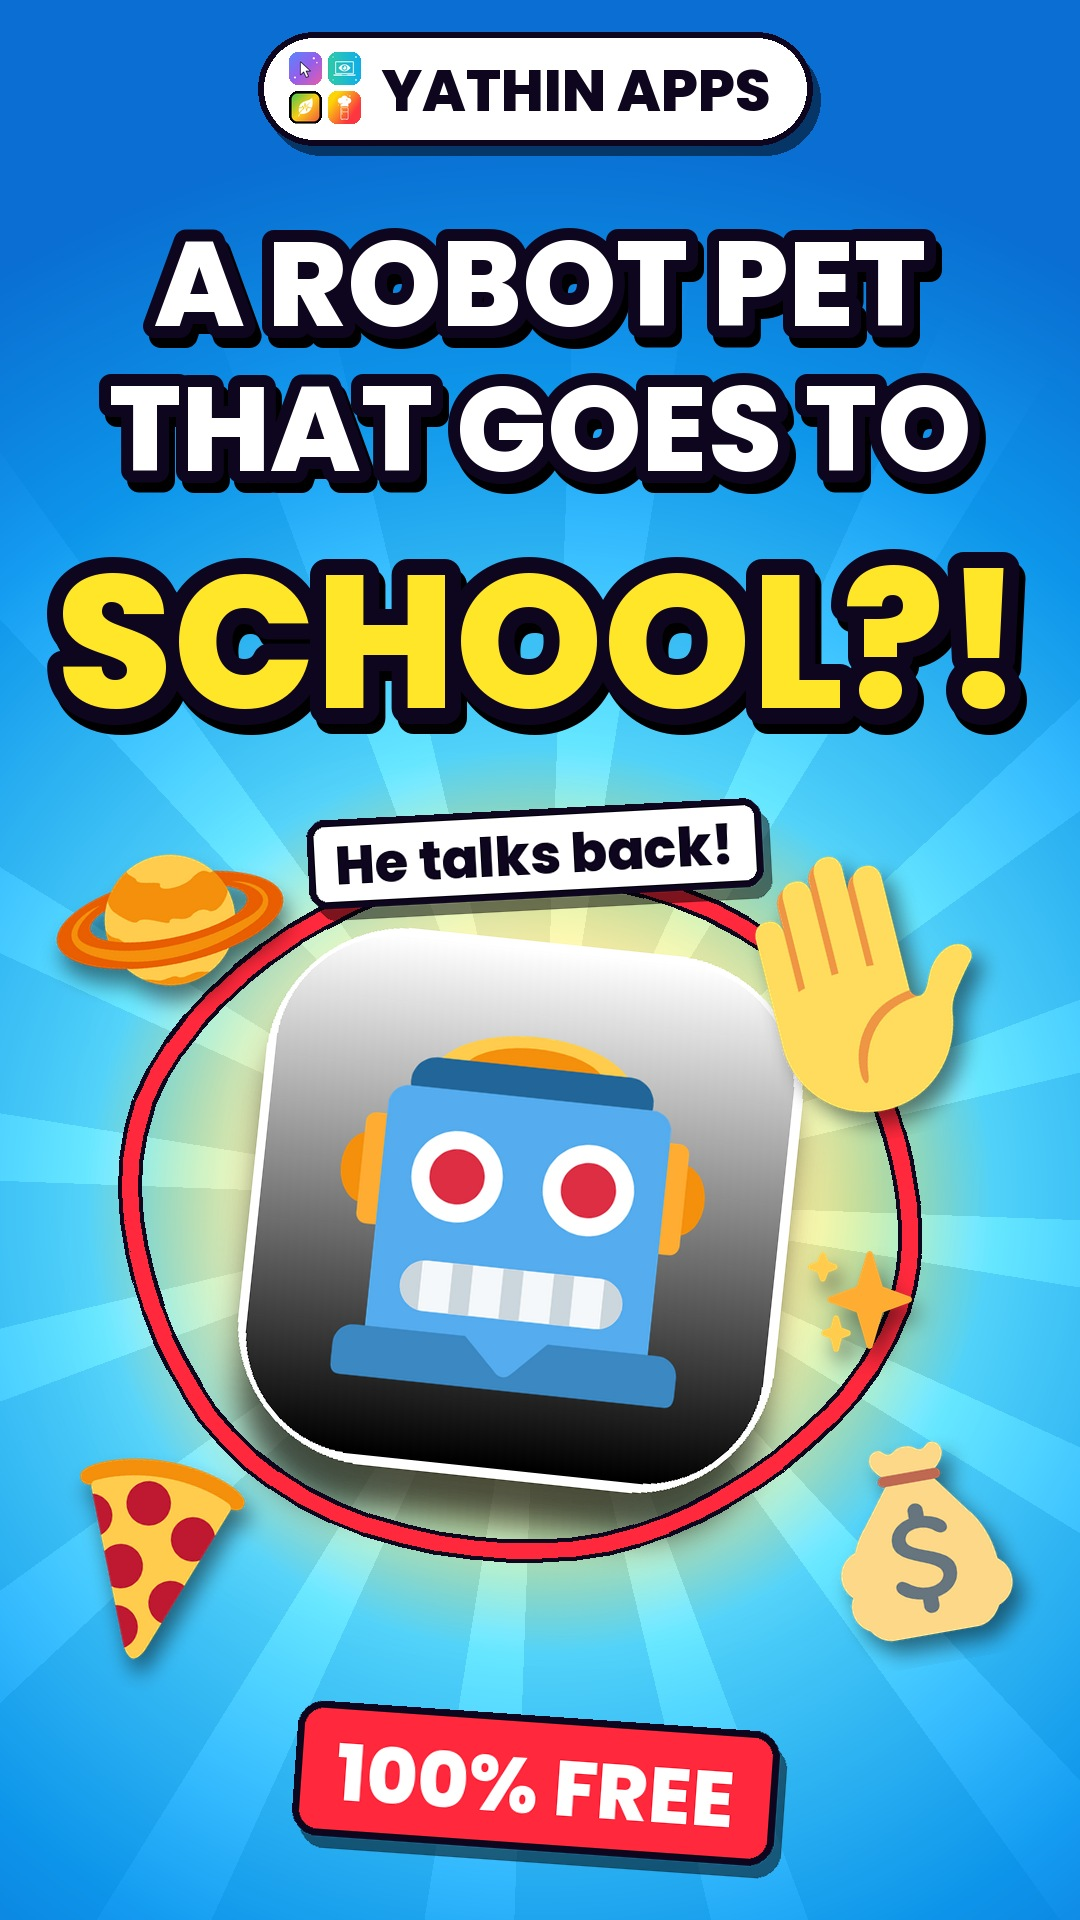
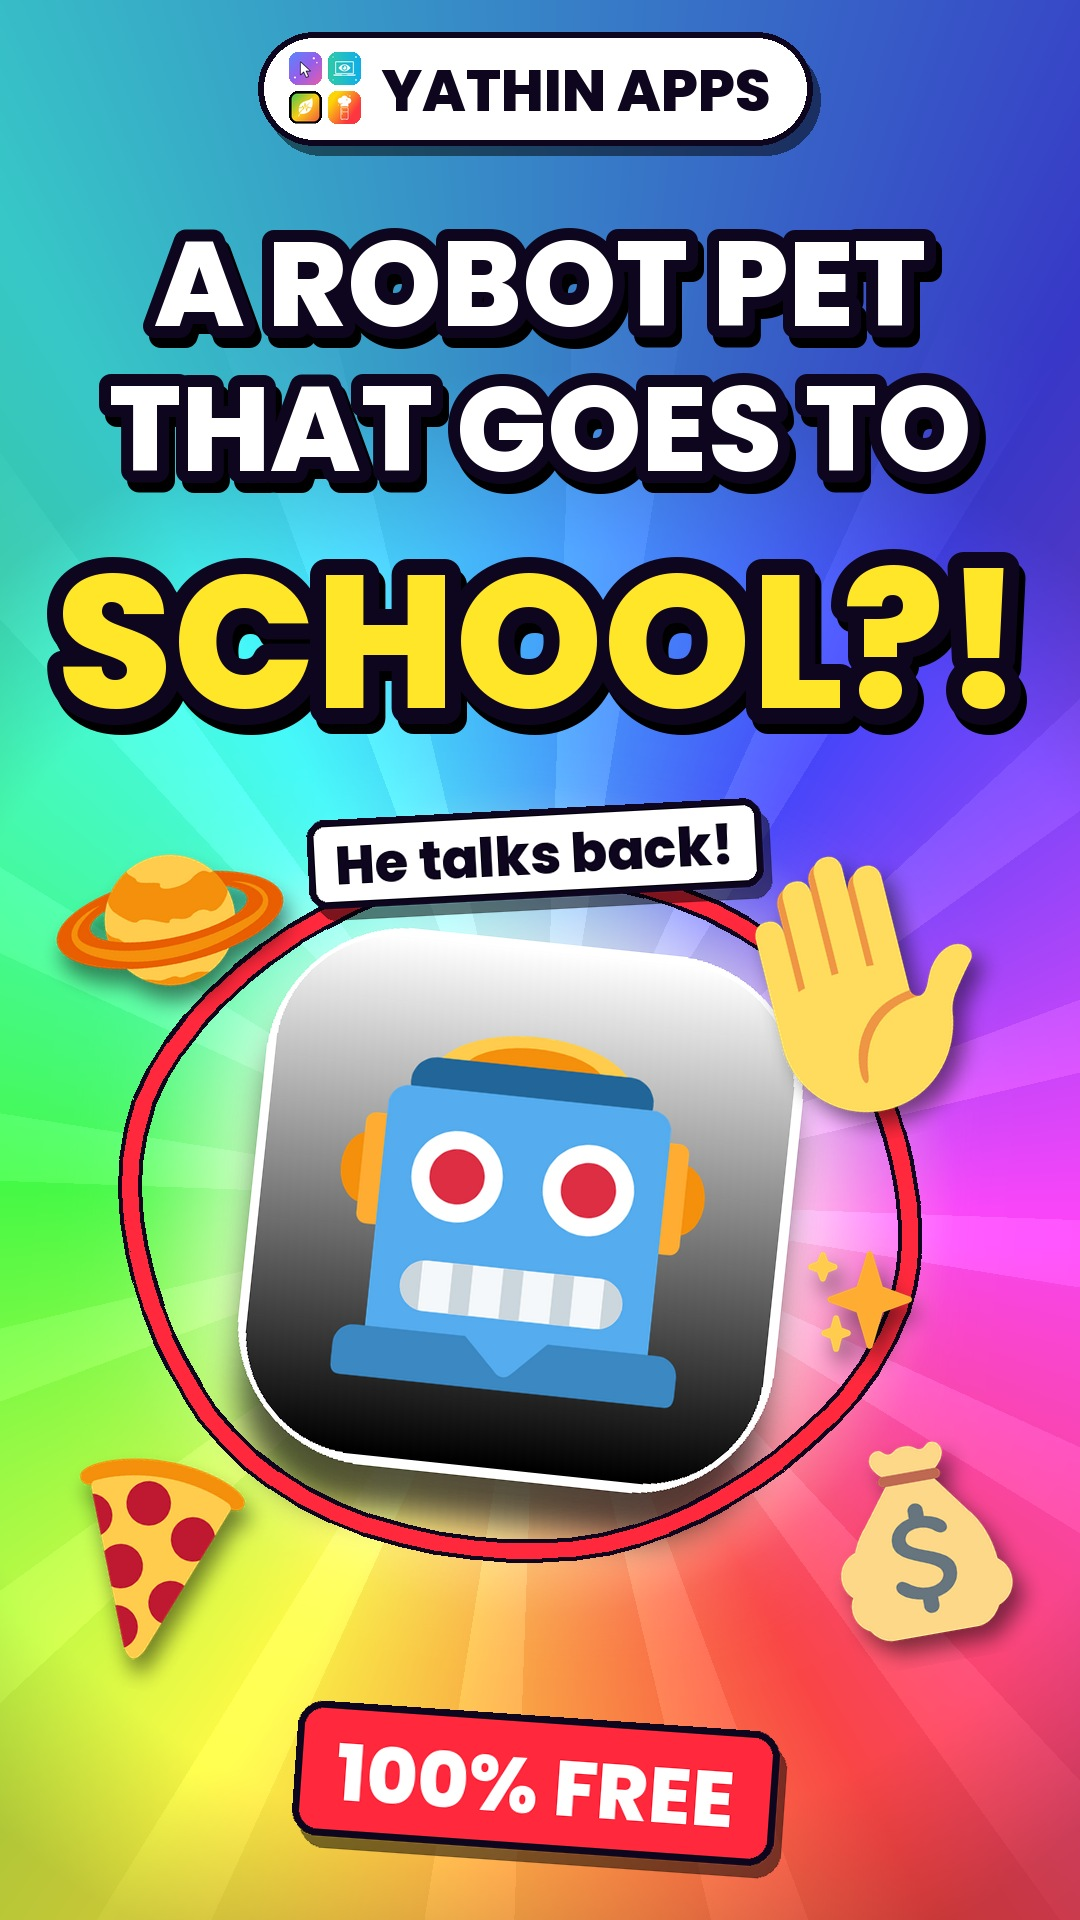
Finko short: rainbow background + thumbnail [skip ci]

diff --git a/videos/src/director.html b/videos/src/director.html
@@ -159,7 +159,7 @@ const SCRIPTS = {
    {end:true, say:"Yathin Apps. Free, all in one place."}
   ]},
 
- "finko-vertical": { vertical:true, bg:"linear-gradient(180deg,#075985 0%,#0369a1 20%,#0284c7 36%,#38bdf8 46%,#e0f2fe 54%,#ffffff 60%,#ffffff 100%)", btn:"linear-gradient(90deg,#38bdf8,#facc15)",
+ "finko-vertical": { vertical:true, bg:"linear-gradient(180deg,rgba(255,255,255,0) 0%,rgba(255,255,255,0) 42%,#ffffff 58%,#ffffff 100%),linear-gradient(90deg,#e11d48 0%,#ea580c 20%,#ca8a04 38%,#16a34a 56%,#0284c7 76%,#7c3aed 100%)", btn:"linear-gradient(90deg,#38bdf8,#facc15)",
   voice:"en-US-AvaNeural", rate:"+10%",
   icon:"/finko/finko_icon.png", title:"Virtual Finko", tag:"A robot pet you can play with",
   chips:["100% free","Plays in your browser","Made by Yathin"], foot:"praveenp-works.github.io/yathin_apps/finko",

diff --git a/videos/thumbnails/make_finko_thumbnail.py b/videos/thumbnails/make_finko_thumbnail.py
@@ -3,11 +3,18 @@ import numpy as np
 src=open('thumbnails/make_yathin_thumbnail.py').read().split('# ---- wide')[0]
 exec(src)
 def bgsky(W,H,cx,cy):
-    y,x=np.mgrid[0:H,0:W]; dx=(x-cx)/W; dy=(y-cy)/W; r=np.sqrt(dx*dx+dy*dy)
-    stops=[(0,(255,244,120)),(.2,(255,214,40)),(.42,(80,210,250)),(.75,(14,150,235)),(1,(10,110,210))]
-    out=np.zeros((H,W,3))
-    for c in range(3): out[...,c]=np.interp(r,[s[0] for s in stops],[s[1][c] for s in stops])
-    ang=np.arctan2(dy,dx); rays=(np.sin(ang*16)>0.55)*np.clip(1-r*1.1,0,1)*40
+    import colorsys
+    y,x=np.mgrid[0:H,0:W]; dx=(x-cx)/W; dy=(y-cy)/W; r=np.sqrt(dx*dx+dy*dy); ang=np.arctan2(dy,dx)
+    hue=((ang/(2*np.pi))+1-0.17)%1
+    hsv=np.stack([hue,np.full_like(hue,.78),np.full_like(hue,.98)],-1)
+    rgb=np.vectorize(lambda h:0)(hue[:1,:1])  # placeholder
+    h6=hue*6; i=np.floor(h6).astype(int)%6; f=h6-np.floor(h6); v=.98; s_=.72
+    p_=v*(1-s_); q_=v*(1-s_*f); t_=v*(1-s_*(1-f))
+    R=np.choose(i,[v,q_,p_,p_,t_,v]); G=np.choose(i,[t_,v,v,q_,p_,p_]); B=np.choose(i,[p_,p_,t_,v,v,q_])
+    out=np.stack([R,G,B],-1)*255
+    c=np.clip(1-r*2.6,0,1)[...,None]; out=out*(1-c)+np.array([255,246,170])*c   # warm glow centre
+    e=np.clip((r-.6)*1.2,0,.2)[...,None]; out=out*(1-e)                          # gentle darker edges
+    rays=(np.sin(ang*16)>0.55)*np.clip(1-r*1.1,0,1)*35
     return Image.fromarray(np.clip(out+rays[...,None],0,255).astype('uint8')).convert('RGBA')
 bg=bgsky(1080,1920,540,1200); d=ImageDraw.Draw(bg)
 fa=ImageFont.truetype(F,120); fb=ImageFont.truetype(F,188)
